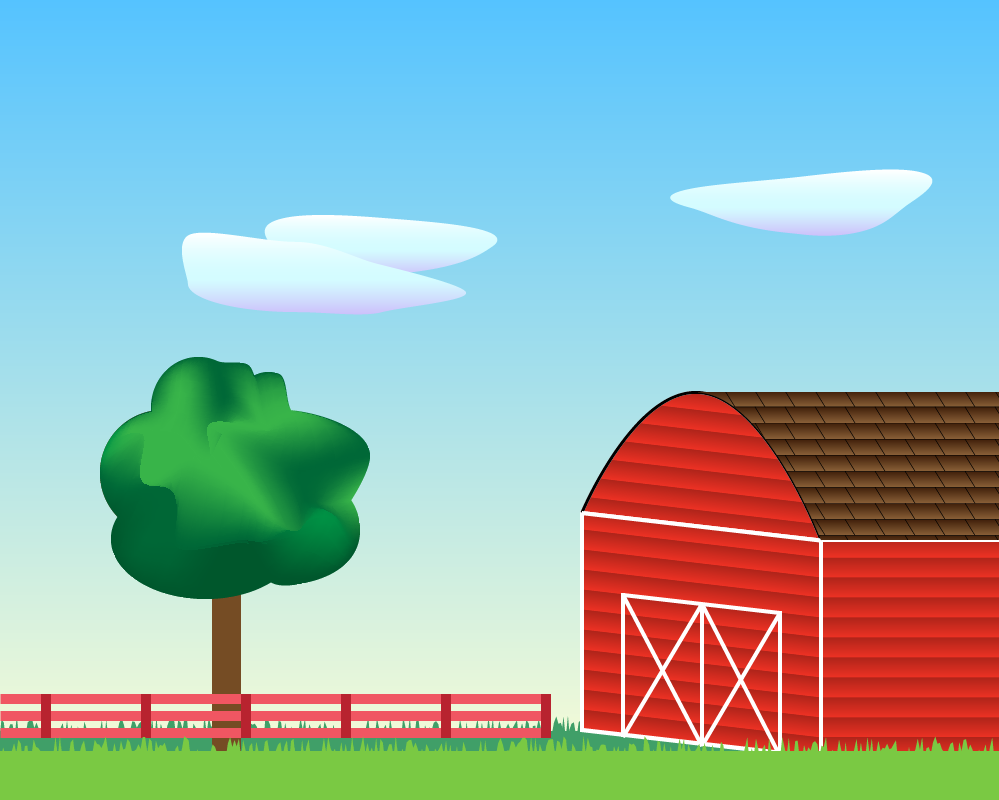
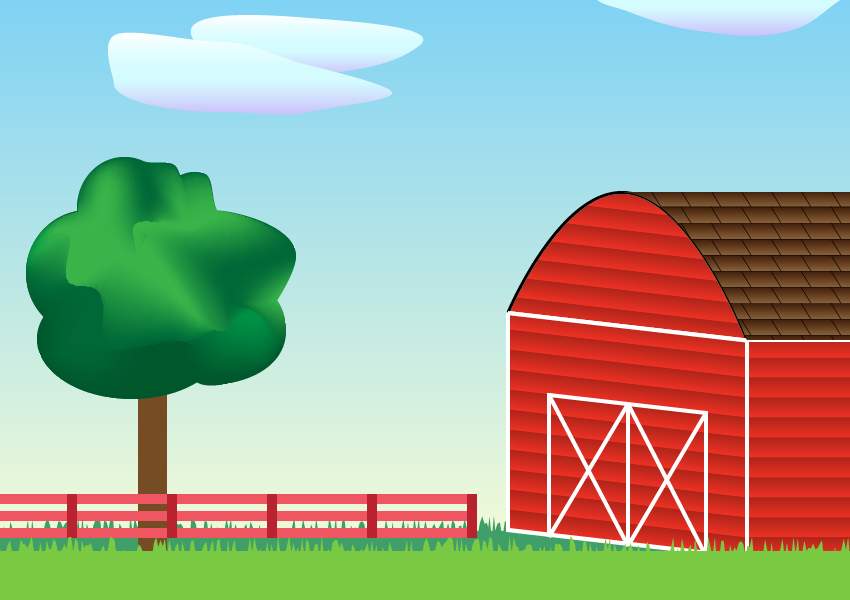
resized game window

diff --git a/hm_settings.py b/hm_settings.py
@@ -13,12 +13,12 @@ class Settings():
     def __init__(self):
         """initialize game settings"""
         #game display
-        self.screen_width = 1000
-        self.screen_height = 800
+        self.screen_width = 850
+        self.screen_height = 600
         self.gameDisplay = pg.display.set_mode((self.screen_width, self.screen_height))
         self.bg_color = (0,230,230)
         self.fps = 30
-        self.bg_image = pg.image.load("D:/Python/hungry_martians/farm.png")
+        self.bg_image = pg.image.load("farm.png")
         
         # game state
         self.state = 'newgame'
@@ -34,11 +34,11 @@ class Settings():
         self.num_cows = 2
 
         #animal images
-        self.cowLeft = pg.image.load("D:/Python/hungry_martians/cow_left.png")
-        self.cowRight = pg.image.load("D:/Python/hungry_martians/cow_right.png")
+        self.cowLeft = pg.image.load("cow_left.png")
+        self.cowRight = pg.image.load("cow_right.png")
 
-        self.chickenLeft = pg.image.load("D:/Python/hungry_martians/chicken_left.png")
-        self.chickenRight = pg.image.load("D:/Python/hungry_martians/chicken_right.png")
+        self.chickenLeft = pg.image.load("chicken_left.png")
+        self.chickenRight = pg.image.load("chicken_right.png")
 
         # moo sound
         self.cowsSay = pg.mixer.Sound("yudena__cow-bymondfisch89.ogg")
@@ -56,36 +56,36 @@ class Settings():
         self.bright_green = (61, 235, 98) 
         self.light_orange = (255, 106, 54)
 
-        self.titleImg = pg.image.load("D:/Python/hungry_martians/title.png")
+        self.titleImg = pg.image.load("title.png")
 
-        self.playImg = pg.image.load("D:/Python/hungry_martians/play_button.png")
-        self.quitImg = pg.image.load("D:/Python/hungry_martians/quit_button.png")
-        self.nextImg = pg.image.load("D:/Python/hungry_martians/next_button.png")
-        self.restartImg = pg.image.load("D:/Python/hungry_martians/restart_button.png")
-        self.huntImg = pg.image.load("D:/Python/hungry_martians/hunt_button.png")
+        self.playImg = pg.image.load("play_button.png")
+        self.quitImg = pg.image.load("quit_button.png")
+        self.nextImg = pg.image.load("next_button.png")
+        self.restartImg = pg.image.load("restart_button.png")
+        self.huntImg = pg.image.load("hunt_button.png")
 
-        self.greenShield = pg.image.load("D:/Python/hungry_martians/green_shield.png")
+        self.greenShield = pg.image.load("green_shield.png")
 
         # ux components
         self.shield_indicator = ShieldIcon(self.gameDisplay,self.greenShield, 31, 35, 35, 75)
 
         # new game screen
-        self.title = UXcomponent(self.gameDisplay,self.titleImg, 513, 141, 500,340)
-        self.playButton = UXcomponent(self.gameDisplay,self.playImg, 173, 159,500,500)
-        self.quitButton = UXcomponent(self.gameDisplay, self.quitImg, 173, 159, 500, 700)
-
+        self.title = UXcomponent(self.gameDisplay,self.titleImg, 513, 141, 425,200)
+        self.playButton = UXcomponent(self.gameDisplay,self.playImg, 173, 159,425,400)
+        self.quitButton = UXcomponent(self.gameDisplay, self.quitImg, 173, 159, 425, 550) 
+ 
         # game over screen
-        self.gameOverMsg = Text(self.gameDisplay, 120, 500, 240, self.light_orange, "Game Over")
-        self.restartButton = UXcomponent(self.gameDisplay, self.restartImg, 173, 159,500,500)
+        self.gameOverMsg = Text(self.gameDisplay, 120, 425, 175, self.light_orange, "Game Over")
+        self.restartButton = UXcomponent(self.gameDisplay, self.restartImg, 173, 159,425,400)
 
         # start level screen components
-        self.levelHeading = Text(self.gameDisplay, 120, 500, 340, self.light_orange, "Farm {0}".format(self.level))
-        self.huntButton = UXcomponent(self.gameDisplay, self.huntImg, 173, 159,500,500)
+        self.levelHeading = Text(self.gameDisplay, 120, 425, 175, self.light_orange, "Farm {0}".format(self.level))
+        self.huntButton = UXcomponent(self.gameDisplay, self.huntImg, 173, 159,425,400)
 
         # end level screen components
-        self.goodJob = Text(self.gameDisplay, 120, 500, 240, self.light_orange, "Good Job!")
-        self.endMsg = Text(self.gameDisplay, 100, 500, 340, self.light_orange, "All animals abducted!")
-        self.nextButton = UXcomponent(self.gameDisplay, self.nextImg, 173, 159,500,500)
+        self.goodJob = Text(self.gameDisplay, 120, 425, 140, self.light_orange, "Good Job!")
+        self.endMsg = Text(self.gameDisplay, 100, 425, 230, self.light_orange, "All animals abducted!")
+        self.nextButton = UXcomponent(self.gameDisplay, self.nextImg, 173, 159,425,400)
 
         # group for new game menu components
         self.newgameUX = [self.title, self.playButton, self.quitButton]
@@ -112,7 +112,7 @@ class Settings():
         self.level = 1
         self.num_cows = 2
         self.num_farmers = 1
-        self.levelHeading = Text(self.gameDisplay, 120, 500, 340, self.light_orange, "Farm 1")
+        self.levelHeading = Text(self.gameDisplay, 120, 425, 175, self.light_orange, "Farm 1")
         self.shield_indicator.image = self.greenShield
         updatedHeading = self.levelHeading
         self.startUX[0] = updatedHeading

diff --git a/hm_gamefunctions.py b/hm_gamefunctions.py
@@ -24,7 +24,7 @@ def move_farmers(farmers):
 def move_animals(animals):
     """ move each cow"""
     for a in animals:
-        if a.rect.bottom >550:
+        if a.rect.bottom >350:
             a.move_self()
 
 def farmer_shoot(farmers,display,bullets):
@@ -66,7 +66,7 @@ def animals_hit(beam, settings):
         # makes the animal move up the screen
         a.captured = True
         # play the animal's sound
-        a.speak()
+        a.speak(settings.state)
 
 
 def player_movement(player):
@@ -89,7 +89,7 @@ def check_events(player, settings, tb):
             if event.key == K_LEFT:
                 player.moving_left = True
             if event.key == K_SPACE and player.charged == True:
-                player.fire_tb(tb)
+                player.fire_tb(tb, settings.state)
                 animals_hit(tb, settings)
                 settings.setCaptured()
 
@@ -142,7 +142,7 @@ def loadNext(mouse_x, mouse_y, settings, ship):
         settings.setupNextLevel()
         ship.resetHP()
         level = settings.level
-        settings.levelHeading = Text(settings.gameDisplay, 120, 500, 340, settings.light_orange, "Farm {0}".format(level))
+        settings.levelHeading = Text(settings.gameDisplay, 120, 425, 175, settings.light_orange, "Farm {0}".format(level))
         updatedHeading = settings.levelHeading
         settings.startUX[0] = updatedHeading
         settings.state = "startLevel"
@@ -172,7 +172,7 @@ def update_characters(settings, player, bullets, tb):
     for f in settings.farmers:
         f.blit_self()
     for a in settings.animals:
-        if a.rect.bottom > 550:
+        if a.rect.bottom > 350:
             a.blit_self()
     # used to control how long the tb is displayed on the screen
     if tb.lifespan > 0:
@@ -223,7 +223,7 @@ def setupMovement():
 
 def setStartPoint(numCharacters):
     """ set up the characters to be evenly spaced"""
-    evenDistance = int(1000 / (numCharacters + 1 ))
+    evenDistance = int(850 / (numCharacters + 1 ))
     positions = [ evenDistance * (x+ 1) for x in range(0, numCharacters)]
 
     negOffset = -int(evenDistance * 0.15)
@@ -252,7 +252,7 @@ def makeFarmer(settings):
         shotTrig= random.choice(possible)
 
         location = startPoints[x]
-        settings.farmers.add(Farmer(settings.gameDisplay, location, 730, left, right, 3, shotTrig))
+        settings.farmers.add(Farmer(settings.gameDisplay, location, 530, left, right, 3, shotTrig))
 
 def makeCow(settings):
     """ function to make a cow"""
@@ -265,9 +265,9 @@ def makeCow(settings):
         left, right = setupMovement()
 
         location = startPoints[x]
-        settings.animals.add(Cow(settings.gameDisplay, location, 770, left, right, 5, settings.cowLeft, settings.cowRight , settings.cowsSay))
+        settings.animals.add(Cow(settings.gameDisplay, location, 570, left, right, 5, settings.cowLeft, settings.cowRight , settings.cowsSay))
 
 def makeChicken(settings):
     """ function to make chickens"""
     left, right = setupMovement()
-    settings.animals.add(Chicken(settings.gameDisplay, 500, 770, left, right, 7, settings.chickenLeft, settings.chickenRight, settings.chickensSay))
+    settings.animals.add(Chicken(settings.gameDisplay, 425, 570, left, right, 7, settings.chickenLeft, settings.chickenRight, settings.chickensSay))

diff --git a/hm_ship.py b/hm_ship.py
@@ -8,8 +8,8 @@ class Ship(Character):
     def __init__(self,display,centerx,bottom,moving_left,moving_right,speed,hp):
         super().__init__(display,centerx,bottom,moving_left,moving_right,speed)
         """attributes for the player's ship""" 
-        self.ufo_charged = pg.image.load("D:/Python/hungry_martians/alien_ship_charged.png")
-        self.ufo_reloading = pg.image.load("D:/Python/hungry_martians/alien_ship_reloading.png")
+        self.ufo_charged = pg.image.load("alien_ship_charged.png")
+        self.ufo_reloading = pg.image.load("alien_ship_reloading.png")
 
         self.img = self.ufo_charged
 
@@ -24,21 +24,22 @@ class Ship(Character):
         self.beamSound = pg.mixer.Sound("ani-music__massive-laser-blast-laser2.wav")
         self.damageSound = pg.mixer.Sound("danielnieto7__alert.wav")
 
-    def fire_tb(self, tb):
+    def fire_tb(self, tb, gameState):
         """ shoot the tractor beam"""
-        self.beamSound.play()
-        #change the image of the ship to 'charging'
-        self.image = self.ufo_reloading
+        if gameState == 'running':
+            self.beamSound.play()
+            #change the image of the ship to 'charging'
+            self.image = self.ufo_reloading
 
-        # set charging timer to 3 seconds
-        self.chargingTimer = 90
-        self.charged = False
+            # set charging timer to 3 seconds
+            self.chargingTimer = 90
+            self.charged = False
 
-        # center tb under ship
-        tb.rect.centerx = self.rect.centerx
+            # center tb under ship
+            tb.rect.centerx = self.rect.centerx
 
-        # set tractor beam lifespan to 15
-        tb.lifespan = tb.maxlife
+            # set tractor beam lifespan to 15
+            tb.lifespan = tb.maxlife
 
     
     def chargeBeam(self):
@@ -65,7 +66,7 @@ class TBeam(pg.sprite.Sprite):
         self.display_rect = display.get_rect()
 
         # load entity image 
-        self.image = pg.image.load("D:/Python/hungry_martians/tractor_beam.png")
+        self.image = pg.image.load("tractor_beam.png")
 
         # rect size
         self.rect = self.image.get_rect()

diff --git a/hm_farmer.py b/hm_farmer.py
@@ -10,8 +10,8 @@ class Farmer(Character):
     def __init__(self, display, centerx, bottom, moving_left, moving_right, speed, shot_trigger):
         super().__init__(display, centerx, bottom, moving_left, moving_right, speed)
 
-        self.farmerLeft = pg.image.load("D:/Python/hungry_martians/farmer_left.png")
-        self.farmerRight = pg.image.load("D:/Python/hungry_martians/farmer_right.png")
+        self.farmerLeft = pg.image.load("farmer_left.png")
+        self.farmerRight = pg.image.load("farmer_right.png")
 
         if self.moving_left:
             self.image = self.farmerLeft

diff --git a/hungry_martians.py b/hungry_martians.py
@@ -22,7 +22,7 @@ def run_game():
     pg.display.set_caption("Hungry Martians")
    
     # create the player
-    player = Ship(gameSettings.gameDisplay, 500, 200, 0, 0, 10, 3)
+    player = Ship(gameSettings.gameDisplay, 425, 150, 0, 0, 10, 3)
     tractorBeam = TBeam(gameSettings.gameDisplay, player.rect.centerx, player.rect.bottom, 10)
 
     #create a group for the bullets

diff --git a/hm_characters.py b/hm_characters.py
@@ -10,7 +10,7 @@ class Character(pg.sprite.Sprite):
         self.display_rect = display.get_rect()
 
         # load entity image get its rect
-        self.image = pg.image.load("D:/Python/hungry_martians/alien_ship_charged.png")
+        self.image = pg.image.load("alien_ship_charged.png")
 
         # rect size
         self.rect = self.image.get_rect()

diff --git a/hm_animal.py b/hm_animal.py
@@ -57,6 +57,7 @@ class Animal(pg.sprite.Sprite):
                     self.moving_right = True
                     self.moving_left = False
 
-    def speak(self):
+    def speak(self, gameState):
         """ play the animal's sound"""
-        self.animalSound.play() 
+        if gameState == 'running':
+            self.animalSound.play() 
